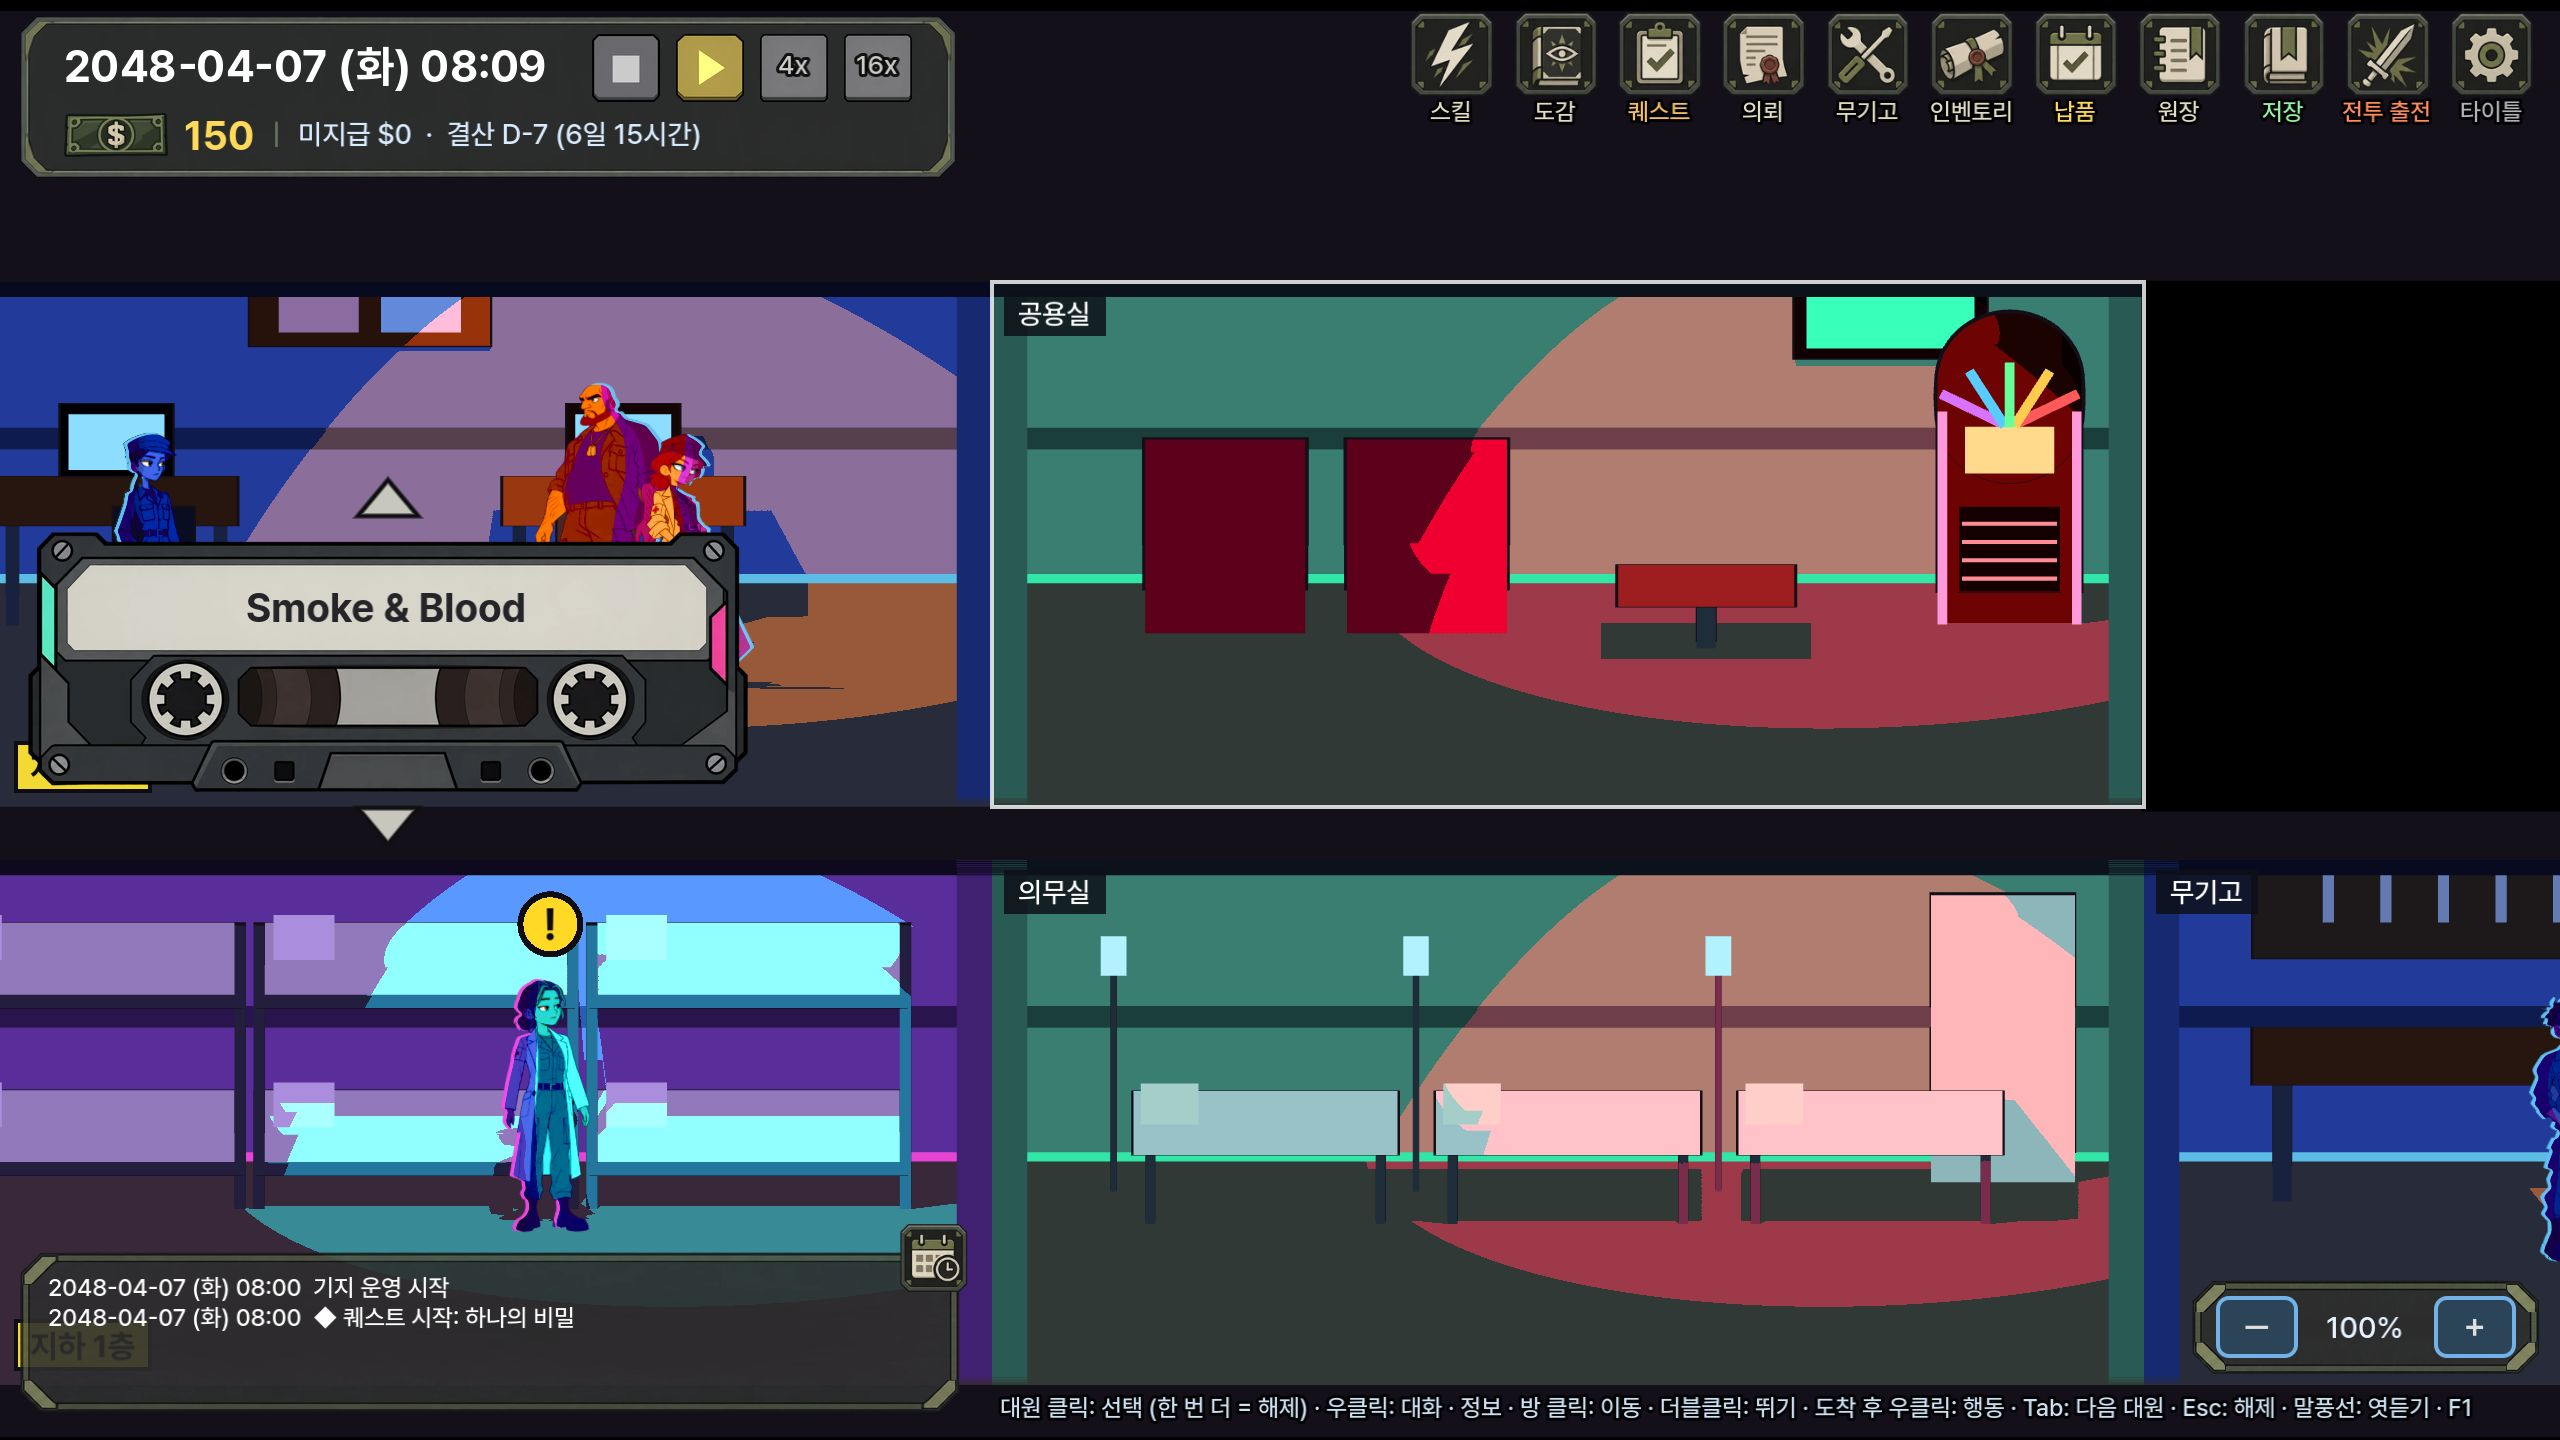
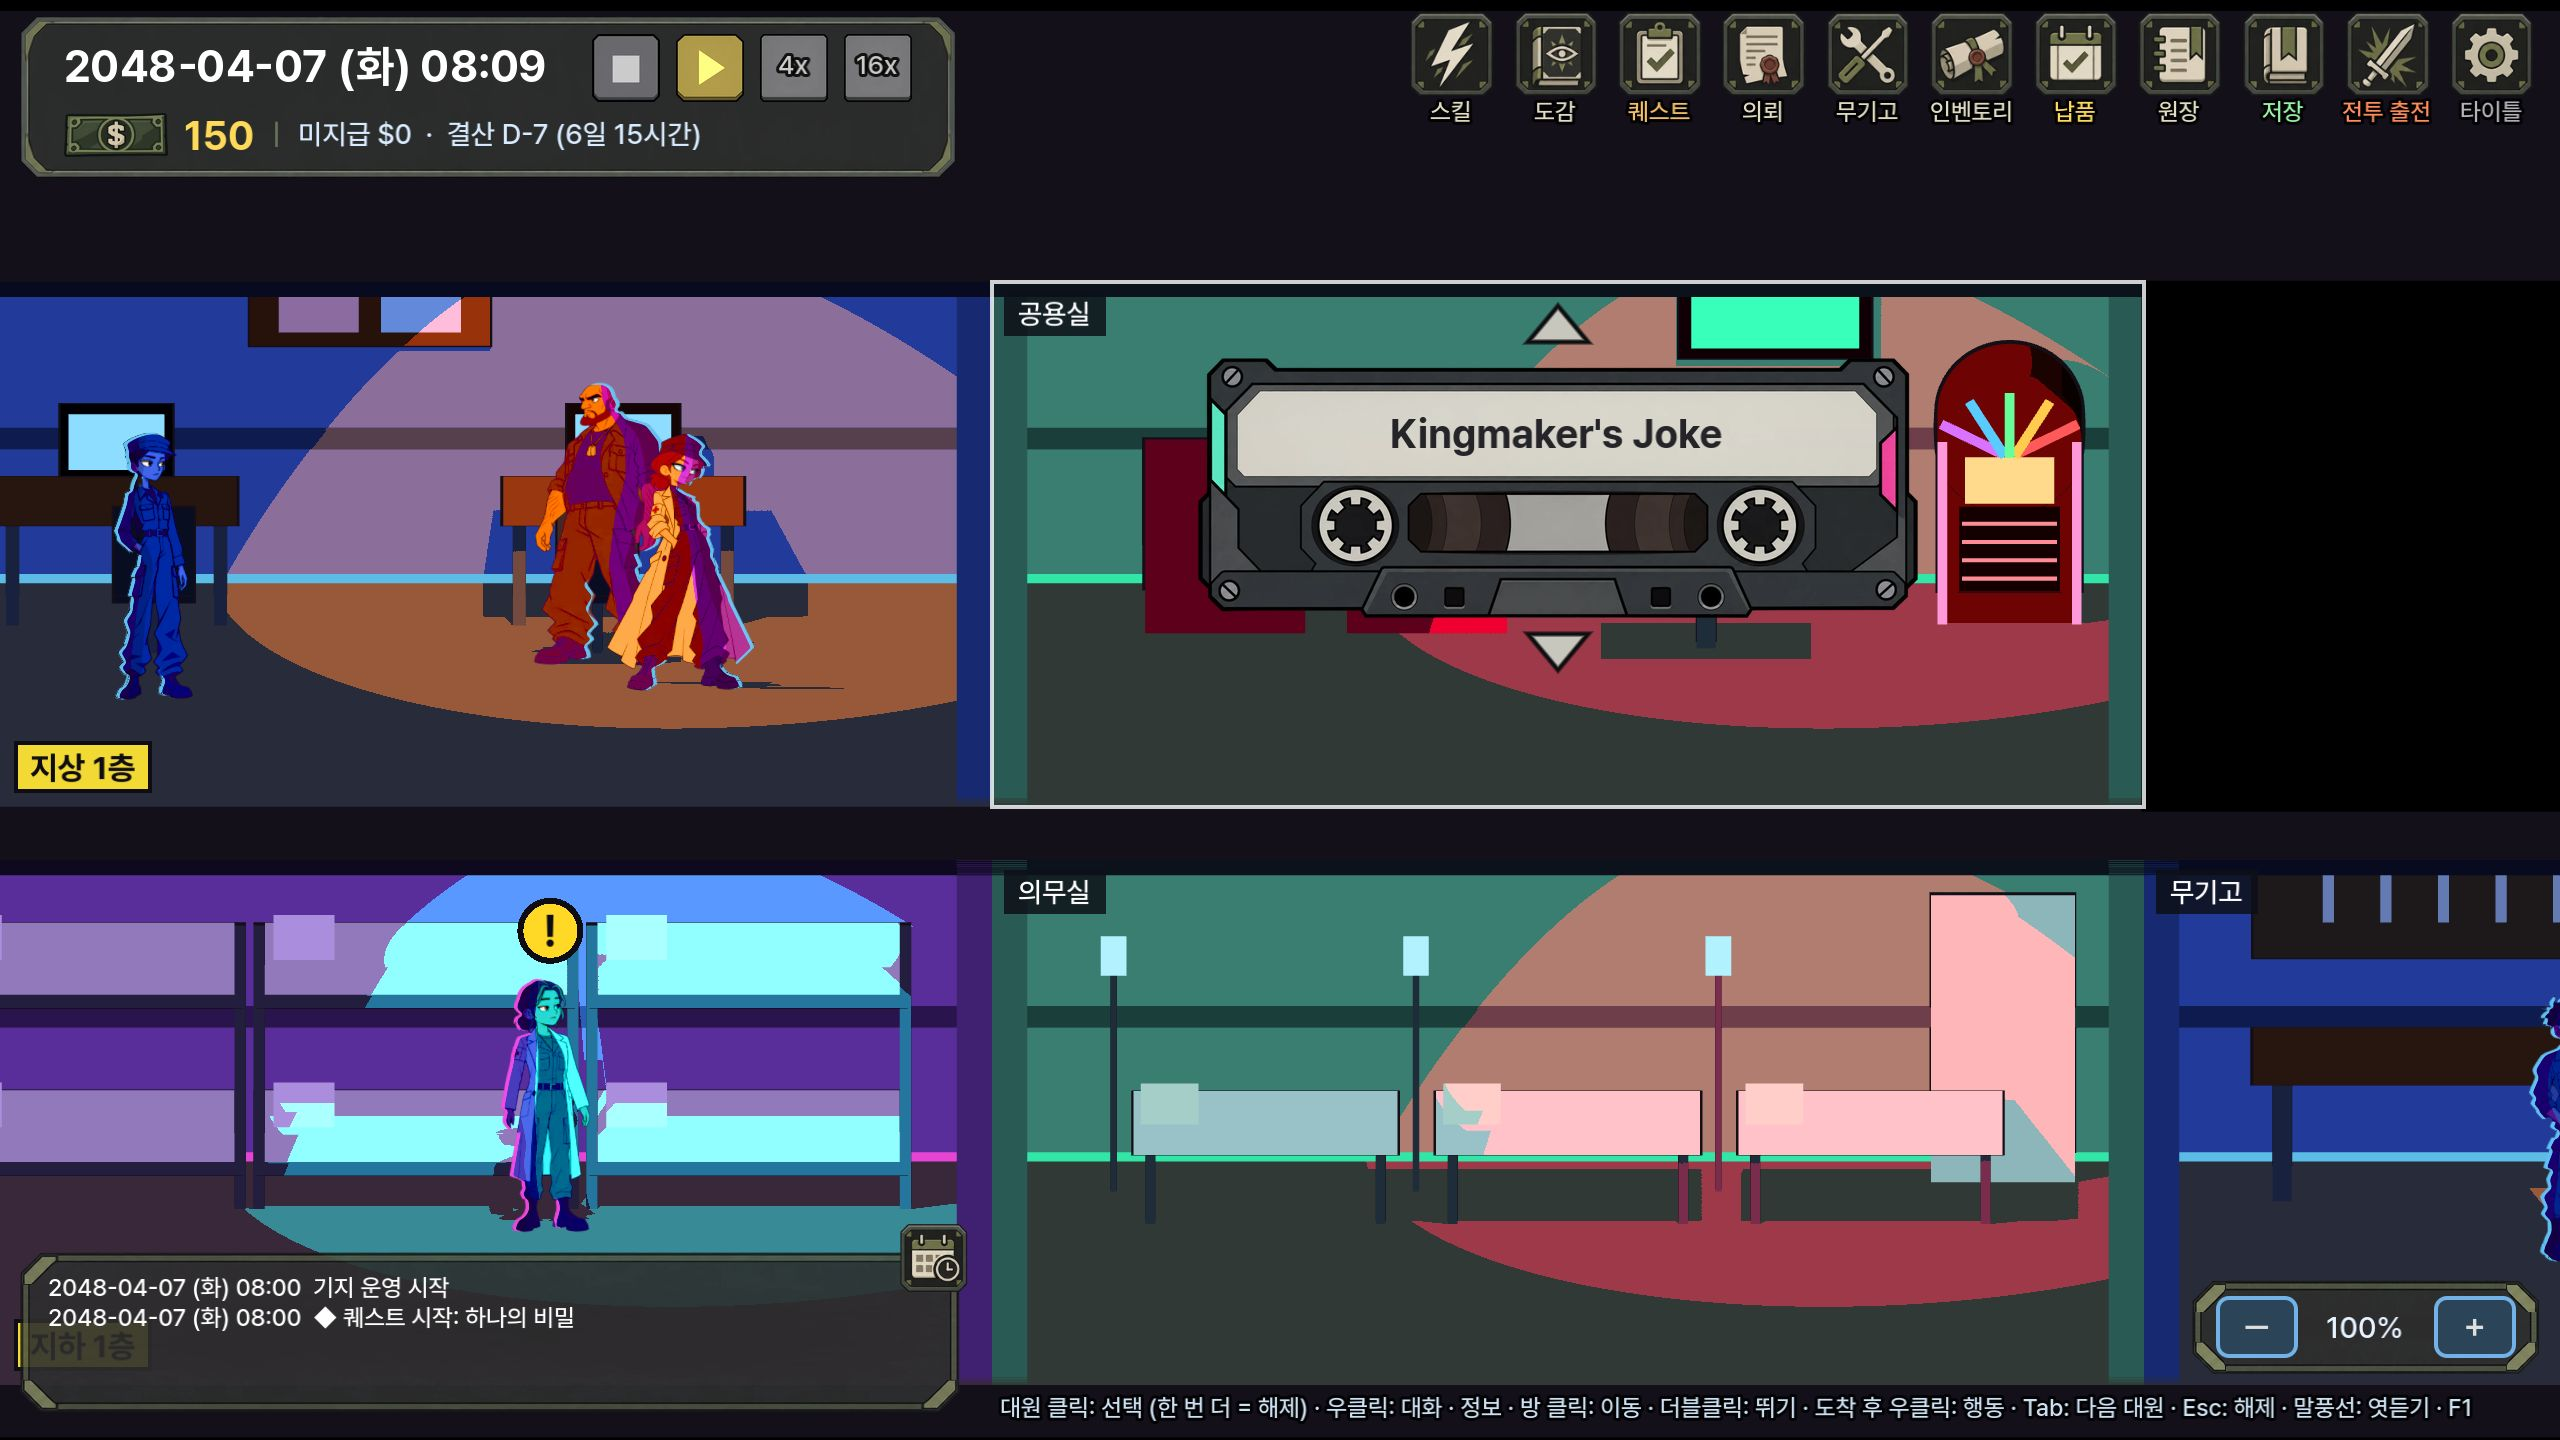
Show the music cassette right next to the jukebox
The cassette panel now sits just left of the lounge jukebox, vertically
centered on it, follows camera pan/zoom, and stays on screen.

Claude-Session: https://claude.ai/code/session_014aytw3hj7boqn3SZ5GP5ti

Changed region(s): [[0.4688, 0.1875, 0.8125, 0.4688], [0.0, 0.3438, 0.3125, 0.5938], [0.1875, 0.625, 0.25, 0.6875]]

diff --git a/docs/design/PROTOTYPE_GDD_v1_0.md b/docs/design/PROTOTYPE_GDD_v1_0.md
@@ -4,7 +4,7 @@
 
 ## 0. 현재 구현 반영 (변경될 때마다 갱신)
 > 아래는 원 기획 이후 사용자 결정으로 바뀐 내용. 상세 결정 이력은 `00_decision_log_v1_0.md`, 아트 규격은 `../ui_art_spec.md`.
-> 마지막 갱신: 2026-10-30 (날짜 속도 버튼 그림 · 공용실 주크박스 · 배경음악 5곡 · 음악 카세트 창)
+> 마지막 갱신: 2026-10-30 (음악 카세트 창 = 주크박스 바로 왼쪽)
 
 - **표현**: 캐릭터 2D **스프라이트 프레임 애니메이션**(**스프라이트 시트** `assets/characters/<id>/<동작>_<칸 수>.png`, 사용자가 제작 — 시트 없는 동작은 기본 그림 한 장. 현재: 하나·니키타·키라·단·이선·앨마 idle(기본 그림 숨쉬기) — 니키타(빨간 머리 의무병 코트)·키라(회색 군복, 최종)·하나(곱슬머리 군복·오른쪽 눈 아래 점, 최종)·앨마(흰 의무 가운)는 새 그림으로 교체되어 예전 걷기·피격·공격 시트는 지움) + 배경 3D(실광원·그림자). Skeleton2D 리그·3D 캐릭터 전환은 제거.
   칠 방식: **전 캐릭터 네온 칠**(선화는 원화 그대로, 면은 원화 밝기대로 조명색으로 덮음 — 어두운 면은 깊은 보라, 밝은 면은 조명색). `character.json` `"style": "classic"` 이면 예전 셀 칠, `"neon_gradient"` 0~1 = 몸 위→아래 색상 그라데이션(기본 끔).
@@ -25,7 +25,7 @@
 - **전투 행동 연출**: 카메라는 캐릭터를 따라가지 않고 **화면 가운데로 살짝 줌**(1.12배). 행동한 캐릭터가 화면 가운데 쪽(자기 편 쪽 90px)으로 나왔다가 → 공격 · 포즈 → **제자리로 돌아감**. **공격이 명중**하면 카메라가 확실히 흔들림 (16px · 0.32초, 한 행동에 한 번). 값은 BattleView2D 인스펙터 '행동 연출'.
 - **기지 조작**: 대원 클릭 = 선택, **선택한 대원을 한 번 더 클릭 = 선택 해제** (대화는 우클릭 메뉴). 선택해도 오른쪽 아래 카드는 안 뜸 — **우클릭 → '정보 보기'** 를 누르면 화면 가운데 창 (모든 대원; 전투 대원은 장비 · 스킬 트리 포함). 기지 로그창은 오른쪽 위 모서리 아이콘(UI 패키지 schedule)으로 접기 · 펴기.
 - **날짜 속도 버튼** (사용자 제공 그림): 정지 = ■ 버튼, 1배 = ▶ 버튼, 4배 · 16배 = 빈 버튼 + 글자. 지금 속도는 금빛, 나머지는 살짝 어둡게.
-- **배경음악 · 주크박스**: 배경음악 5곡 (`assets/audio/bgm/`, 목록 · 제목 · 음량 `data/bgm.json`), 기지에 들어오면 재생 · 장면이 바뀌어도 이어짐 · 곡이 끝나면 다음 곡. **공용실 오른쪽 주크박스**를 누르면 화면 왼쪽에 **음악 카세트 창**(사용자 제공 그림) — 빈 칸에 지금 곡 제목, 위 ▲ = 이전 곡, 아래 ▼ = 다음 곡. 주크박스를 다시 누르면 닫힘.
+- **배경음악 · 주크박스**: 배경음악 5곡 (`assets/audio/bgm/`, 목록 · 제목 · 음량 `data/bgm.json`), 기지에 들어오면 재생 · 장면이 바뀌어도 이어짐 · 곡이 끝나면 다음 곡. **공용실 오른쪽 주크박스**를 누르면 **주크박스 바로 왼쪽에 음악 카세트 창**(카메라를 움직여도 따라감)(사용자 제공 그림) — 빈 칸에 지금 곡 제목, 위 ▲ = 이전 곡, 아래 ▼ = 다음 곡. 주크박스를 다시 누르면 닫힘.
 - **기지 상단 UI**: 날짜 바 그림 + 속도 버튼 · 지폐 그림 + 돈 · 정보 줄 / 오른쪽 아이콘 버튼 9개(스킬 · 도감 · 퀘스트 · 의뢰 · 무기고 · 원장 · 저장 · 전투 출전 · 타이틀, 아래 이름). 대원 메뉴에도 아이콘. 그림 = assets/ui/outgame (사용자 UI 패키지).
 - **스킬 표 (data/skills.xlsx)**: 스킬 트리 · 신 · 신앙 스킬 · 믿는 신 · 신 해금 · 기적 · 스킬 상태 이상 · 상태 정의 · 몬스터 스킬 · 스킬 포즈의 수치 · 이름 · 설명 · 효과를 엑셀에서 고치면 게임(1초 안) · 에디터에 바로 반영. 표가 원본(JSON 위에 덮음), 에디터 저장 = 표도 씀. 추가 · 삭제 · 연결은 에디터.
 - **스토리 흐름 탭**: Godot 에디터 `스토리` 탭 — 퀘스트 · 컷씬 · 신 정체 해금 · 미션 · 계기를 왼쪽(먼저)→오른쪽(나중) 그래프로, 선 위에 이어지는 방식(시작 · n단계 · 완료 때 · 다음 · 선택 · 퀘스트 시작 · 정체 해금). **거기서 바로 편집**: Shift+끌기로 선 긋기(무슨 뜻으로 이을지 고름 — 시작 조건 · 계기 · 다음 · 선택지 · 행동 · 단계 · 해금 조건), 선 클릭+Delete 로 지우기, + 퀘스트 · + 컷씬 · + 계기, 노드 Delete = 그래프에서만 빼기(선만 끊고 데이터는 그 탭에 남음, `꺼내기`로 다시), 노드 끌어 자리 저장(`story_layout.json`), Ctrl+S 로 quests · cutscenes · faith(divine) 저장, Ctrl+Z (다른 탭에 갔다 와도 유지). 단계 · 대사 세부는 그 탭에서. 끊긴 흐름 검사.

diff --git a/README.md b/README.md
@@ -332,7 +332,7 @@ git 이 없는 설치(zip)는 같은 설치 명령을 다시 실행하면 최신
 ![전투 행동 연출 (가운데로 나온 니키타 · 화면 가운데 줌)](docs/screenshots/battle_action_stage.jpg)
 ![대원 정보 창 (우클릭 → 정보 보기)](docs/screenshots/outgame_info_window.jpg)
 
-- **배경음악 · 주크박스**: 5곡 (`assets/audio/bgm/`, 목록 · 제목 · 음량은 `data/bgm.json`). 기지 공용실 오른쪽 **주크박스**를 누르면 왼쪽에 카세트 창 — 지금 곡 제목, ▲ 이전 곡 · ▼ 다음 곡. 코드 `scripts/presentation/bgm.gd` (`Bgm`).
+- **배경음악 · 주크박스**: 5곡 (`assets/audio/bgm/`, 목록 · 제목 · 음량은 `data/bgm.json`). 기지 공용실 오른쪽 **주크박스**를 누르면 주크박스 바로 왼쪽에 카세트 창 — 지금 곡 제목, ▲ 이전 곡 · ▼ 다음 곡. 코드 `scripts/presentation/bgm.gd` (`Bgm`).
 - **날짜 속도 버튼**: ■ 정지 · ▶ 1배 · 4x · 16x (사용자 제공 그림, `assets/ui/outgame/speed_*.png`).
 
 ![공용실 주크박스 · 음악 카세트 창 · 속도 버튼](docs/screenshots/outgame_jukebox_music.jpg)

diff --git a/docs/design/00_decision_log_v1_0.md b/docs/design/00_decision_log_v1_0.md
@@ -510,6 +510,8 @@
   - 주크박스: 공용실 오른쪽 빈 곳 (TV 를 조금 왼쪽으로). 3D 상자 모델 (둥근 윗부분 · 무지개 발광 띠). 누르면 왼쪽에 카세트 창 (위 ▲ 이전 · 아래 ▼ 다음), 다시 누르면 닫힘. 선택한 곡은 저장하지 않음 (다시 켜면 첫 곡).
   - 확인용: `--base_ui=music[:곡 번호]`, `--base_ui=jukebox` (주크박스 클릭).
 
+- **2026-10-30 음악 카세트 창 위치**: 화면 왼쪽 고정 → **주크박스 바로 왼쪽**(세로 가운데 맞춤, 카메라 이동 · 확대를 따라감, 화면 밖으로는 안 나감).
+
 ## 검증 중 (확정 아님)
 - **배경 3D + 캐릭터 2D 하이브리드** (2026-10-25 적용): 배경은 3D 방을 2D 카메라와 같은 투영으로 렌더, 캐릭터 라이팅은 실제 광원 위치 기준
   (빛 쪽 얼굴·몸을 광원색으로 밝힘 + 빛이 뒤에서 오면 같은 쪽 가장자리 림 + 바닥 그림자). 캐릭터 2D(리그)는 확정 사항 유지. (이전 2D 배경 판은 2026-10-27 제거.)
